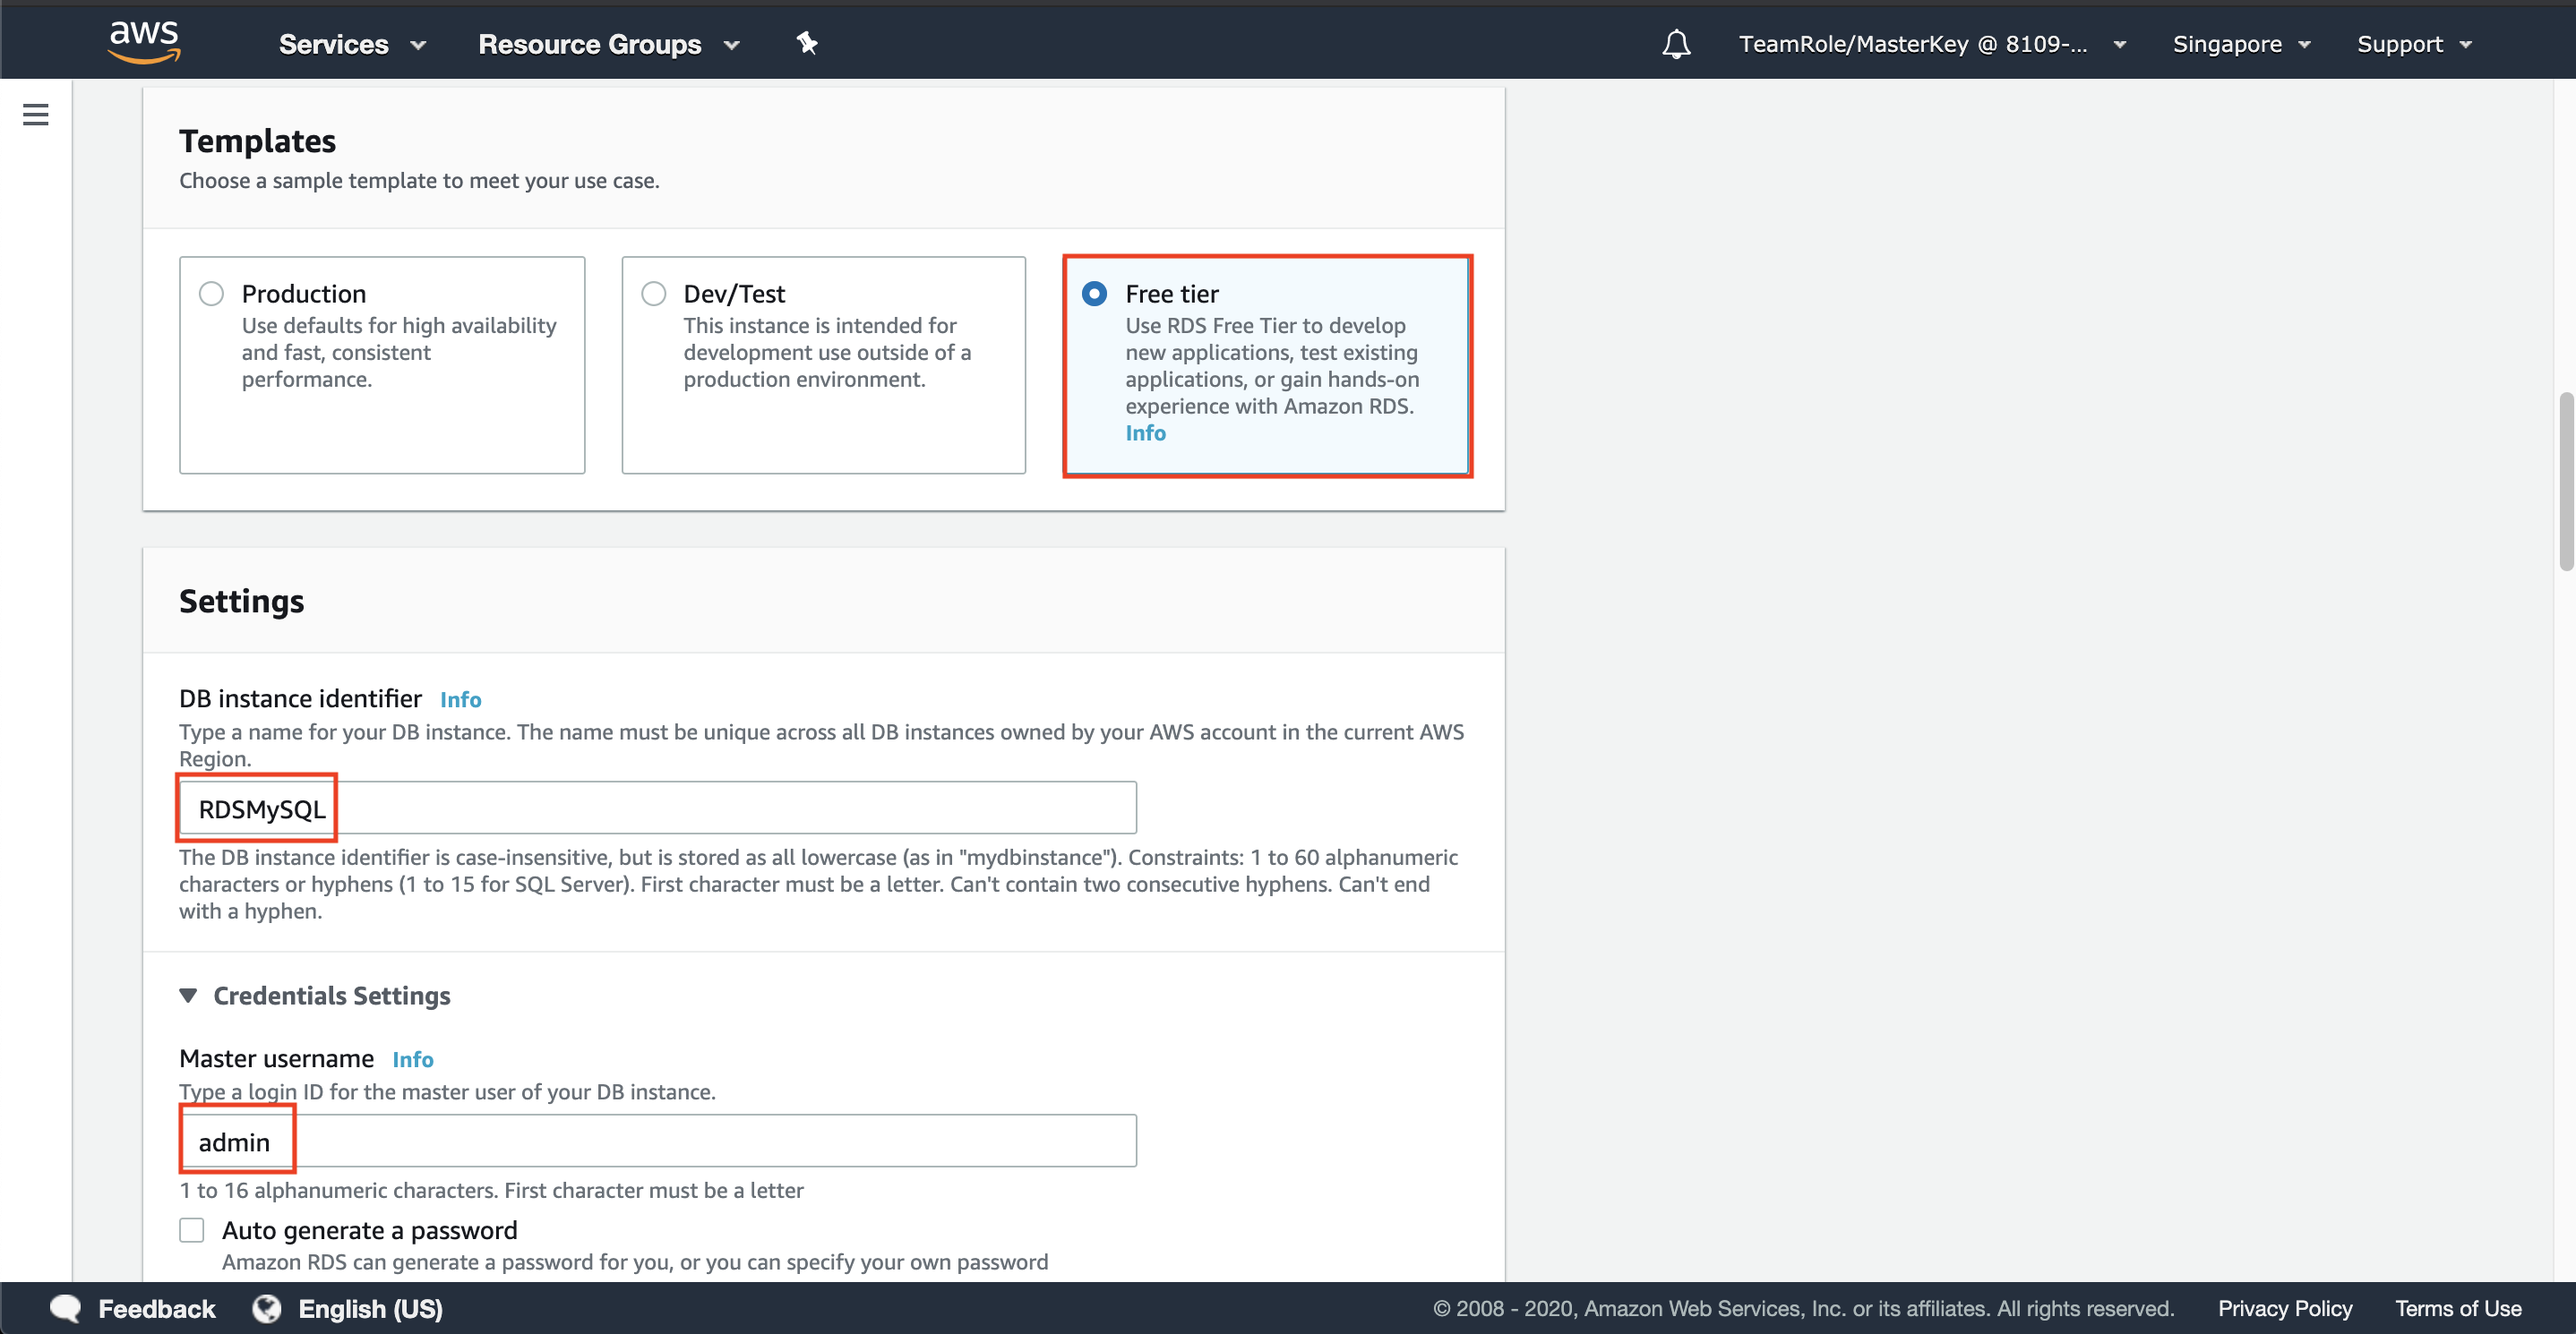
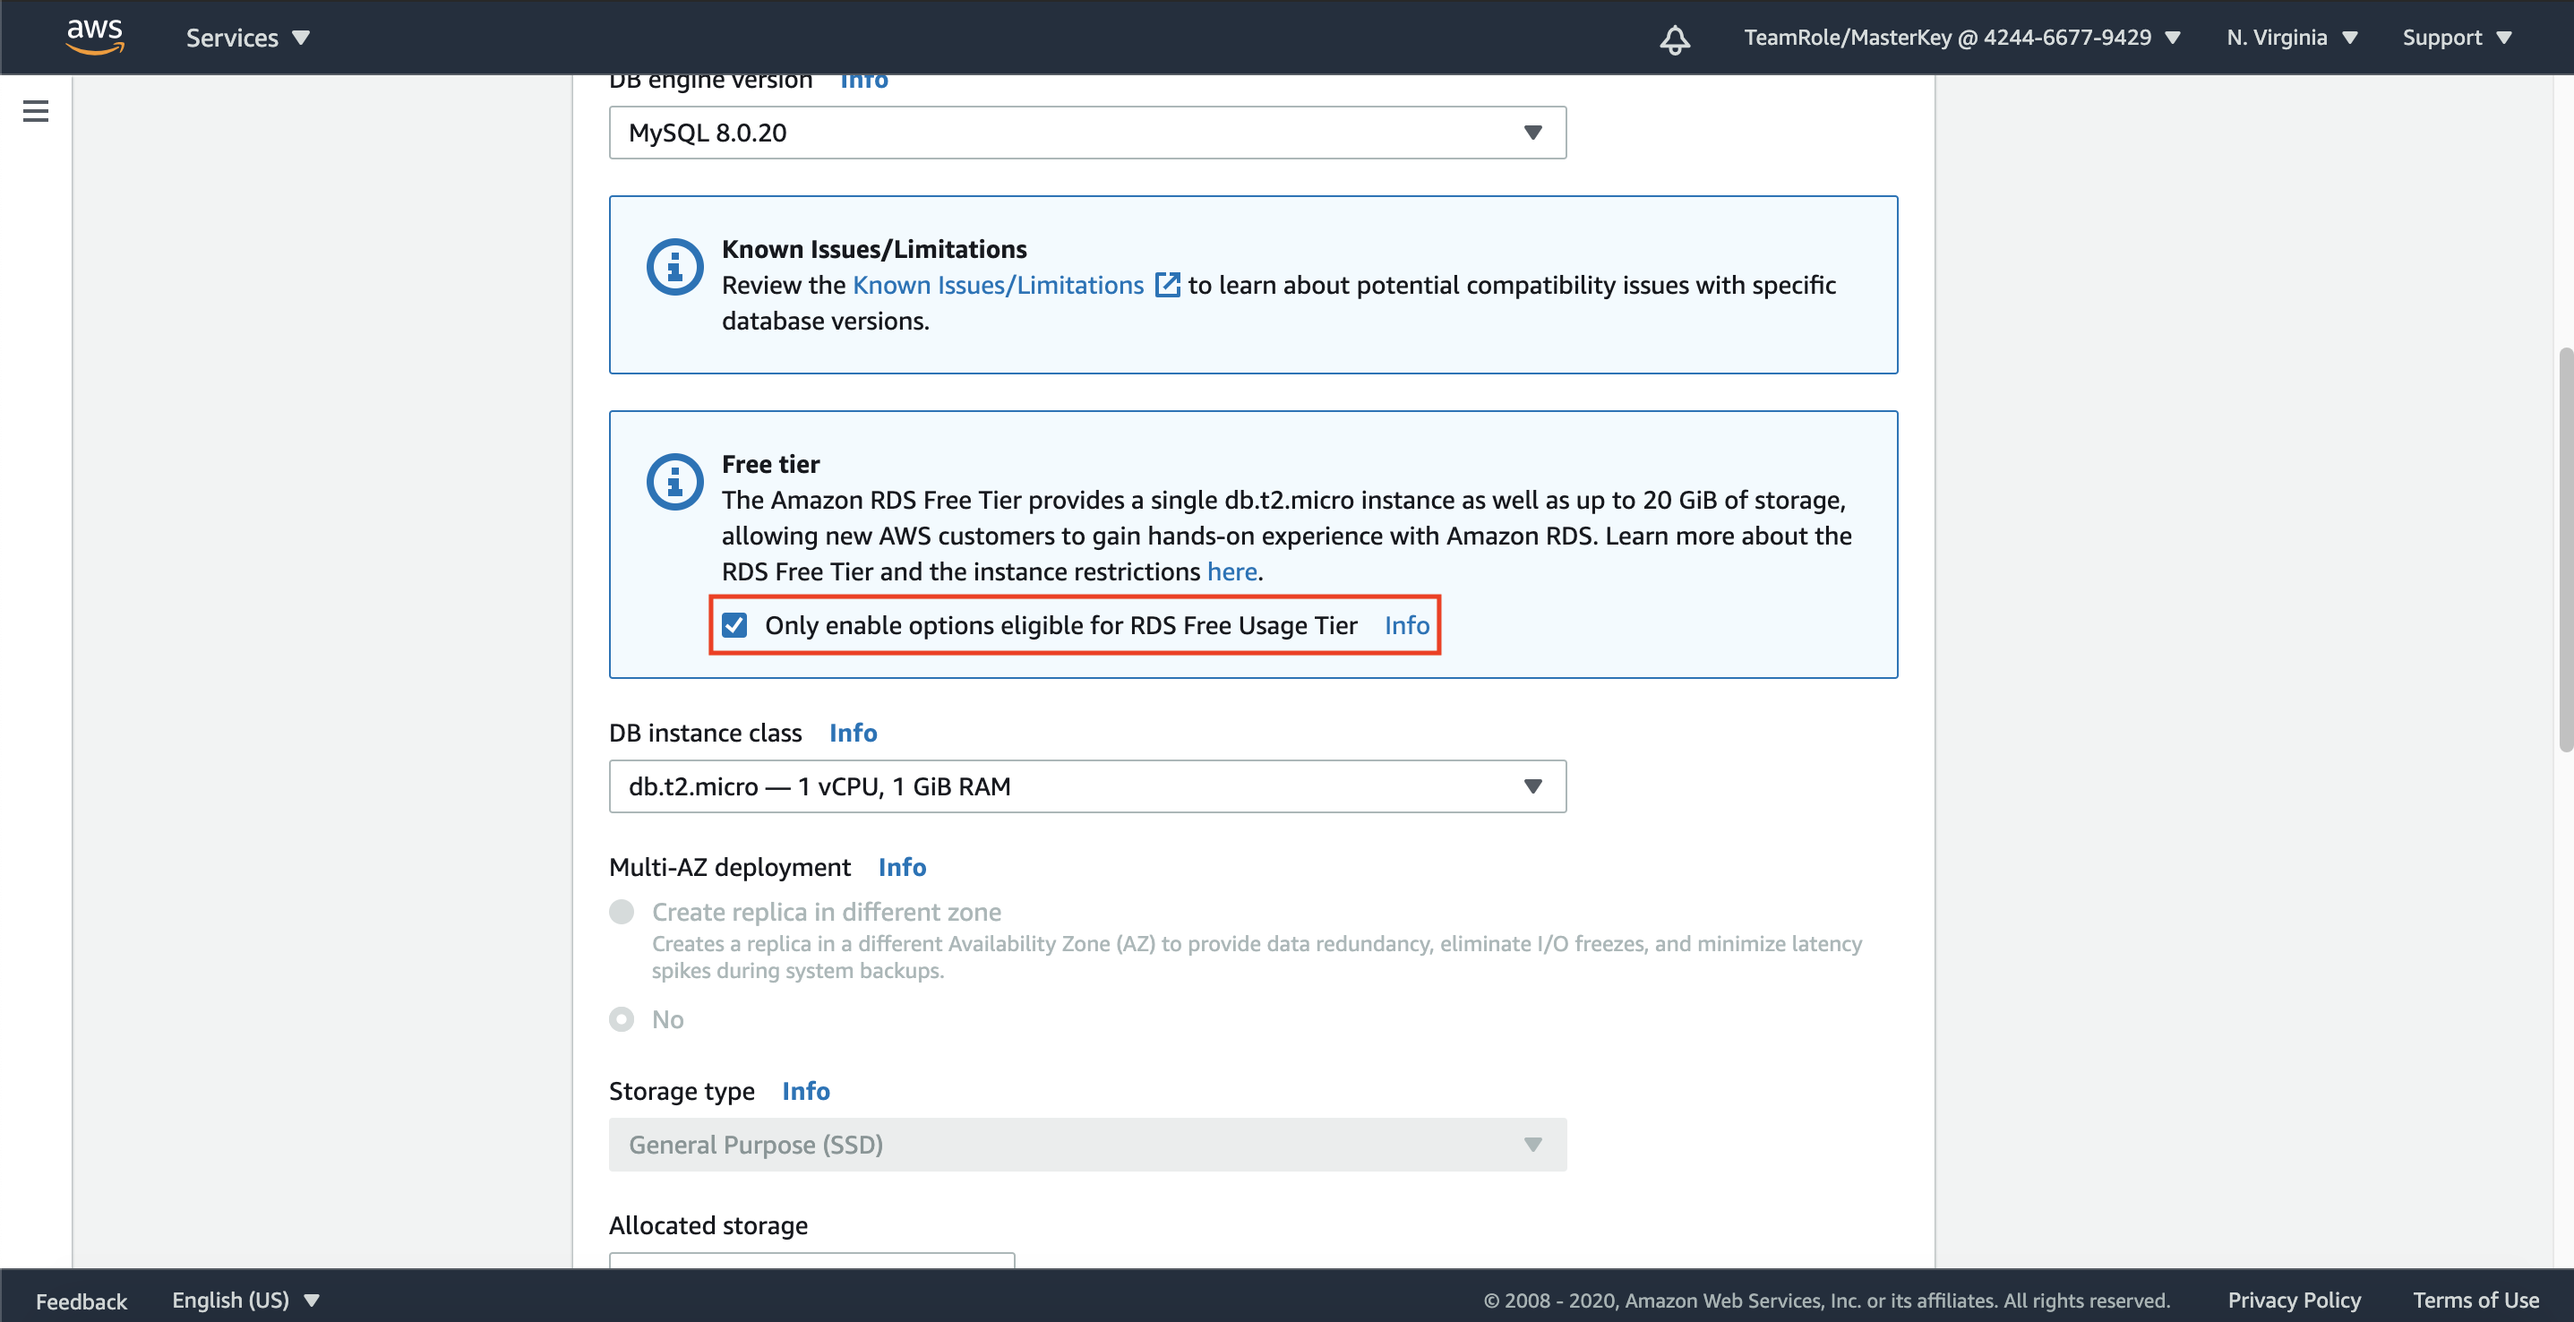
Finalize Create RDS

diff --git a/docs/Migration/CreateRDS.md b/docs/Migration/CreateRDS.md
@@ -45,34 +45,39 @@ Once it's done, we need to create Database instance on RDS.
 it will display the options for databases you can use.
     ![](../../images/Migration/CreateRDS/25.png)
 
-26. Click `Standard Create` for database creation method
-27. Click `MySQL`
-    ![](../../images/Migration/CreateRDS/27.png)
-28. in Templates, click `Free tier`
-29. in settings, change the DB instance identifier with `RDSMySQL`
-30. leave the master username as admin
+26. Choose `MySQL` database on Engine options.
+    ![](../../images/Migration/CreateRDS/26.png)
+27. Click `Next`
+28. in use case, choose `Dev/Test - MySQL`
+29. Click `Next`
+    ![](../../images/Migration/CreateRDS/29.png)
+30. Checklist the checkbox of `Free tier`
     ![](../../images/Migration/CreateRDS/30.png)
-31. fill the master password. make sure to remember your password.
-32. fill confirm password.
-33. In Storage, change the maximum storage threshold to `100` GiB
-    ![](../../images/Migration/CreateRDS/33.png)
-34. in Connectivity, choose your VPC (`DatabaseVPC`)
-35. Click `Additional Connectivity configuration`
-36. Ensure that the subnet group is `RDSMySQLSubnetGroup`
-37. Click Radio Button `Yes` on Public access
-38. Remove `default` on Existing VPC Security Group and Add `RDSMySQLSG`
-    ![](../../images/Migration/CreateRDS/38.png)
-39. Scroll down and click `Create database`
+31. Change the maximum storage threshold to `100` GiB in Storage autoscaling
+    ![](../../images/Migration/CreateRDS/31.png)
+32. In settings, typeRDSMySQL the DB instance identifier with `RDSMySQL`
+33. type the master username as `admin`
+34. input your password and confirm password
+35. Type `Next`
+    ![](../../images/Migration/CreateRDS/35.png)
+36. In network and security, choose your VPC (`DatabaseVPC`)
+37. Choose your subnet group (`rdsmysqlsubnetgroup`)
+38. Click `Yes` for the public accessibility radio button
+39. in VPC security groups, click `choose existing VPC security groups`
+40. remove the default security group and choose `RDSMySQLSG`
+    ![](../../images/Migration/CreateRDS/40.png)
+41. Scroll down and click `Create database` at the below page.
+42. Click `View DB instance details`
 
 Wait until the status of the database says `Available`. It will take couple of minutes.
 
 We need to test the database.
 
-40. Click `rdsmysql`. It will display the endpoint, networking, and security of the database.
-    ![](../../images/Migration/CreateRDS/40.png)
-41. Open your terminal
-42. Type 'mysql -h `your RDS Endpoint` -u admin -p'
-43. Type your password
+43. Click `rdsmysql`. It will display the endpoint, networking, and security of the database.
     ![](../../images/Migration/CreateRDS/43.png)
+44. Open your terminal
+45. Type 'mysql -h `your RDS Endpoint` -u admin -p'
+46. Type your password
+    ![](../../images/Migration/CreateRDS/46.png)
 
 [BACK TO WORKSHOP GUIDE](../../README.md)
